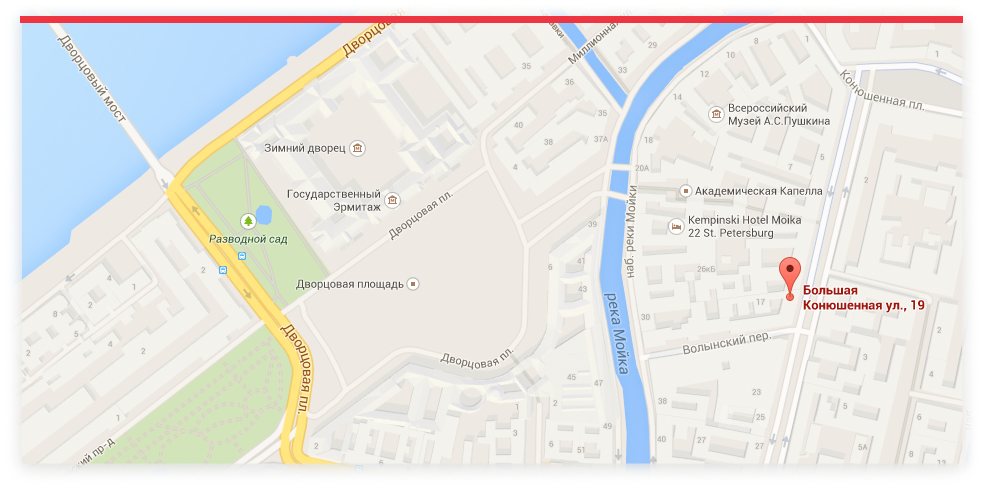
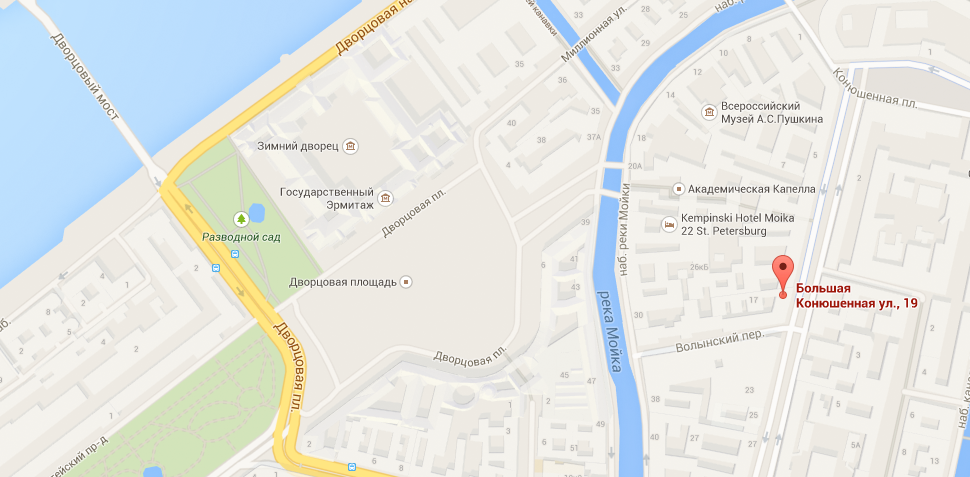
Задание 12. Закончила оформление декоративных элементов модальных окон на главной странице

diff --git a/index.html b/index.html
@@ -213,6 +213,32 @@
           </a>
           <a href="" class="main-btn btn-about-company">Заблудились? Напишите нам!</a>
         </section>
+        <!-- Скрытый блок с картой -->
+        <section class="modal-maps modal">
+          <h2 class="visually-hidden">Как нас найти</h2>
+          <a href="https://yandex.ru/maps/" class="hidden-maps"><img src="img/map-popup.png" width="940" height="445" alt="Наш адрес: город Санкт-Петербург, улица Большая Конюшенная, дом 19/8"></a>
+          <button type="button" class="hidden-btn-maps" aria-label="Кнопка Закрыть"></button>
+        </section>
+        <!-- Скрытый блок с формой -->
+        <section class="form-modal">
+          <h2 class="visually-hidden">Напишите нам!</h2>
+          <form action="https://echo.htmlacademy.ru" method="post" class="form-feedback">
+            <p class="appointment-item">
+              <label for="user-name">Ваше имя:</label>
+              <input type="text" name="name" id="user-name" placeholder="Имя Фамилия">
+            </p>
+            <p class="appointment-item">
+              <label for="user-email">Ваш e-mail:</label>
+              <input type="email" name="email" id="user-email" placeholder="email@example.com">
+            </p>
+            <p class="appointment-text-area">
+              <label for="user-text-mail">Текст письма:</label>
+              <textarea name="text-mail" id="user-text-mail">В свободной форме</textarea>
+            </p>
+            <button type="submit" class="main-btn btn-send-form">Отправить</button>
+          </form>
+          <button type="button" class="hidden-btn-maps btn-close" aria-label="Кнопка Закрыть"></button>
+        </section>
       </div>
     </main>
     <footer class="main-footer">
@@ -265,29 +291,5 @@
         </div>
       </div>
     </footer>
-    <section class="modal">
-      <h2 class="visually-hidden">Напишите нам!</h2>
-      <form action="https://echo.htmlacademy.ru" method="post">
-        <p>
-          <label for="user-name">Ваше имя:</label>
-          <input type="text" name="name" id="user-name" placeholder="Имя Фамилия">
-        </p>
-        <p>
-          <label for="user-email">Ваш e-mail:</label>
-          <input type="email" name="email" id="user-email" placeholder="email@example.com">
-        </p>
-        <p>
-          <label for="user-text-mail">Текст письма:</label>
-          <textarea name="text-mail" id="user-text-mail">В свободной форме</textarea>
-        </p>
-        <button type="submit">Оформить заказ</button>
-      </form>
-      <button type="button">Закрыть</button>
-    </section>
-    <section class="modal">
-      <h2 class="visually-hidden">Как нас найти</h2>
-      <a href="https://yandex.ru/maps/"><img src="img/image-map-popup.png" width="943" height="449" alt="Наш адрес: город Санкт-Петербург, улица Большая Конюшенная, дом 19/8"></a>
-      <button type="button">Закрыть</button>
-    </section>
   </body>
 </html>

diff --git a/css/style.css b/css/style.css
@@ -196,11 +196,29 @@ input[type="radio"].visually-hidden {
 }
 
 .btn-bookmarks {
-  width: 163px;
+  width: 130px;
+  background-image: url(../img/icon-bookmark.svg);
+  background-repeat: no-repeat;
+  background-position: 20px 12px;
+  background-size: 14px 16px;
+  padding-left: 20px;
+}
+
+.btn-bookmarks:hover:not(:active) {
+  background-image: url(../img/icon-bookmark1.svg);
 }
 
 .btn-basket {
-  width: 136px;
+  width: 130px;
+  background-image: url(../img/icon-cart.svg);
+  background-repeat: no-repeat;
+  background-position: 25px 13px;
+  background-size: 15px;
+  padding-left: 20px;
+}
+
+.btn-basket:hover:not(:active) {
+  background-image: url(../img/icon-cart1.svg);
 }
 
 .login {
@@ -572,6 +590,130 @@ input[type="radio"].visually-hidden {
   display: none;
 }
 
+.modal-maps {
+  position: absolute;
+  top: 14px;
+  left: 0;
+  box-shadow: 0px 4px 20px rgba(0, 0, 0, 0.15);
+  height: 445px;
+}
+
+.hidden-maps {
+  width: 940px;
+  height: 445px;
+}
+
+.hidden-btn-maps {
+  cursor: pointer;
+  padding: 0;
+  margin: 0;
+  background-color: transparent;
+  border: none;
+  width: 21px;
+  height: 21px;
+  position: absolute;
+  background-image: url(../img/icon-btn-close.svg);
+  background-repeat: no-repeat;
+  background-size: 21px;
+  top: 17px;
+  right: 10px;
+}
+
+.form-modal {
+  position: absolute;
+  top: 14px;
+  left: 152px;
+  box-shadow: 0px 4px 20px rgba(0, 0, 0, 0.15);
+  width: 620px;
+  height: 430px;
+  background-color: var(--basic-white);
+}
+
+.form-modal::before {
+  content: " ";
+  width: 620px;
+  height: 7px;
+  background-color: var(--basic-red);
+  position: absolute;
+}
+
+.form-modal::after {
+  content: " ";
+  width: 620px;
+  height: 112px;
+  background-color: #F4F4F4;
+  position: absolute;
+  bottom: 0;
+}
+
+.form-feedback {
+  display: flex;
+  flex-wrap: wrap;
+  justify-content: space-between;
+  width: 460px;
+  margin: 46px auto;
+}
+
+.appointment-item {
+  width: 220px;
+}
+
+.form-feedback label {
+  display: block;
+  font-family: "Cuprum", Arial, sans-serif;
+  font-size: 18px;
+  line-height: 24px;
+  margin-bottom: 11px;
+
+}
+
+.form-feedback input {
+  width: 204px;
+  height: 34px;
+  border: 2px solid #C5C5C5;
+  border-radius: 2px;
+  outline: none;
+  padding: 0;
+  margin-bottom: 13px;
+  padding-left: 12px;
+}
+
+.form-feedback input::placeholder {
+  font-size: 13px;
+  line-height: 24px;
+  color: #A9A9A9;
+}
+
+.appointment-text-area textarea {
+  font-size: 13px;
+  line-height: 24px;
+  color: #A9A9A9;
+  width: 444px;
+  height: 100px;
+  border: 2px solid #C5C5C5;
+  border-radius: 2px;
+  outline: none;
+  padding: 0;
+  padding-left: 12px;
+  padding-top: 6px;
+}
+
+.btn-send-form {
+  border: none;
+  padding: 0;
+  margin: 0;
+  text-align: center;
+  width: 460px;
+  position: absolute;
+  bottom: 37px;
+  z-index: 2;
+}
+
+.btn-close {
+  top: 21px;
+  right: 11px;
+}
+
 /* Index, основные свойства */
 
 .main-btn {
@@ -932,6 +1074,7 @@ input[type="radio"].visually-hidden {
   display: flex;
   padding-top: 70px;
   justify-content: space-between;
+  position: relative;
 }
 
 .container-about-company p {
